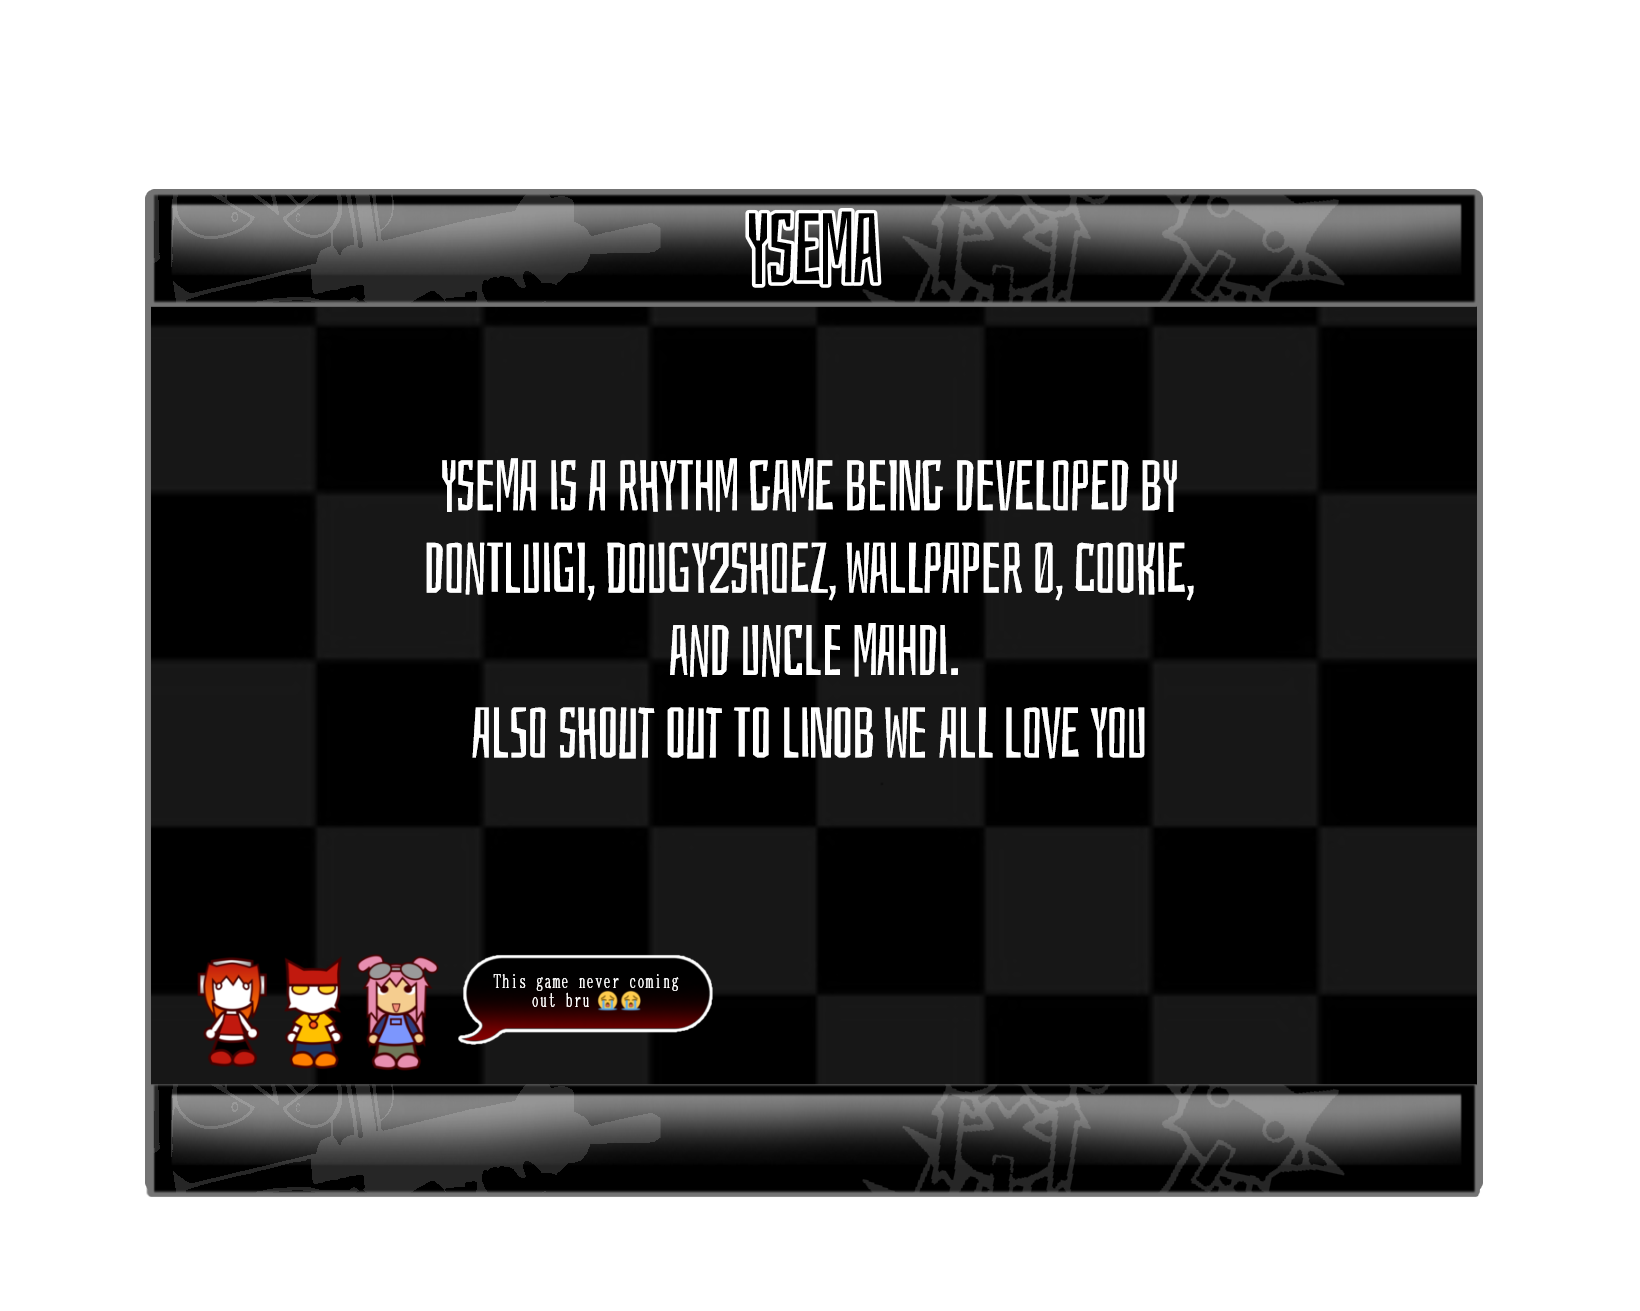
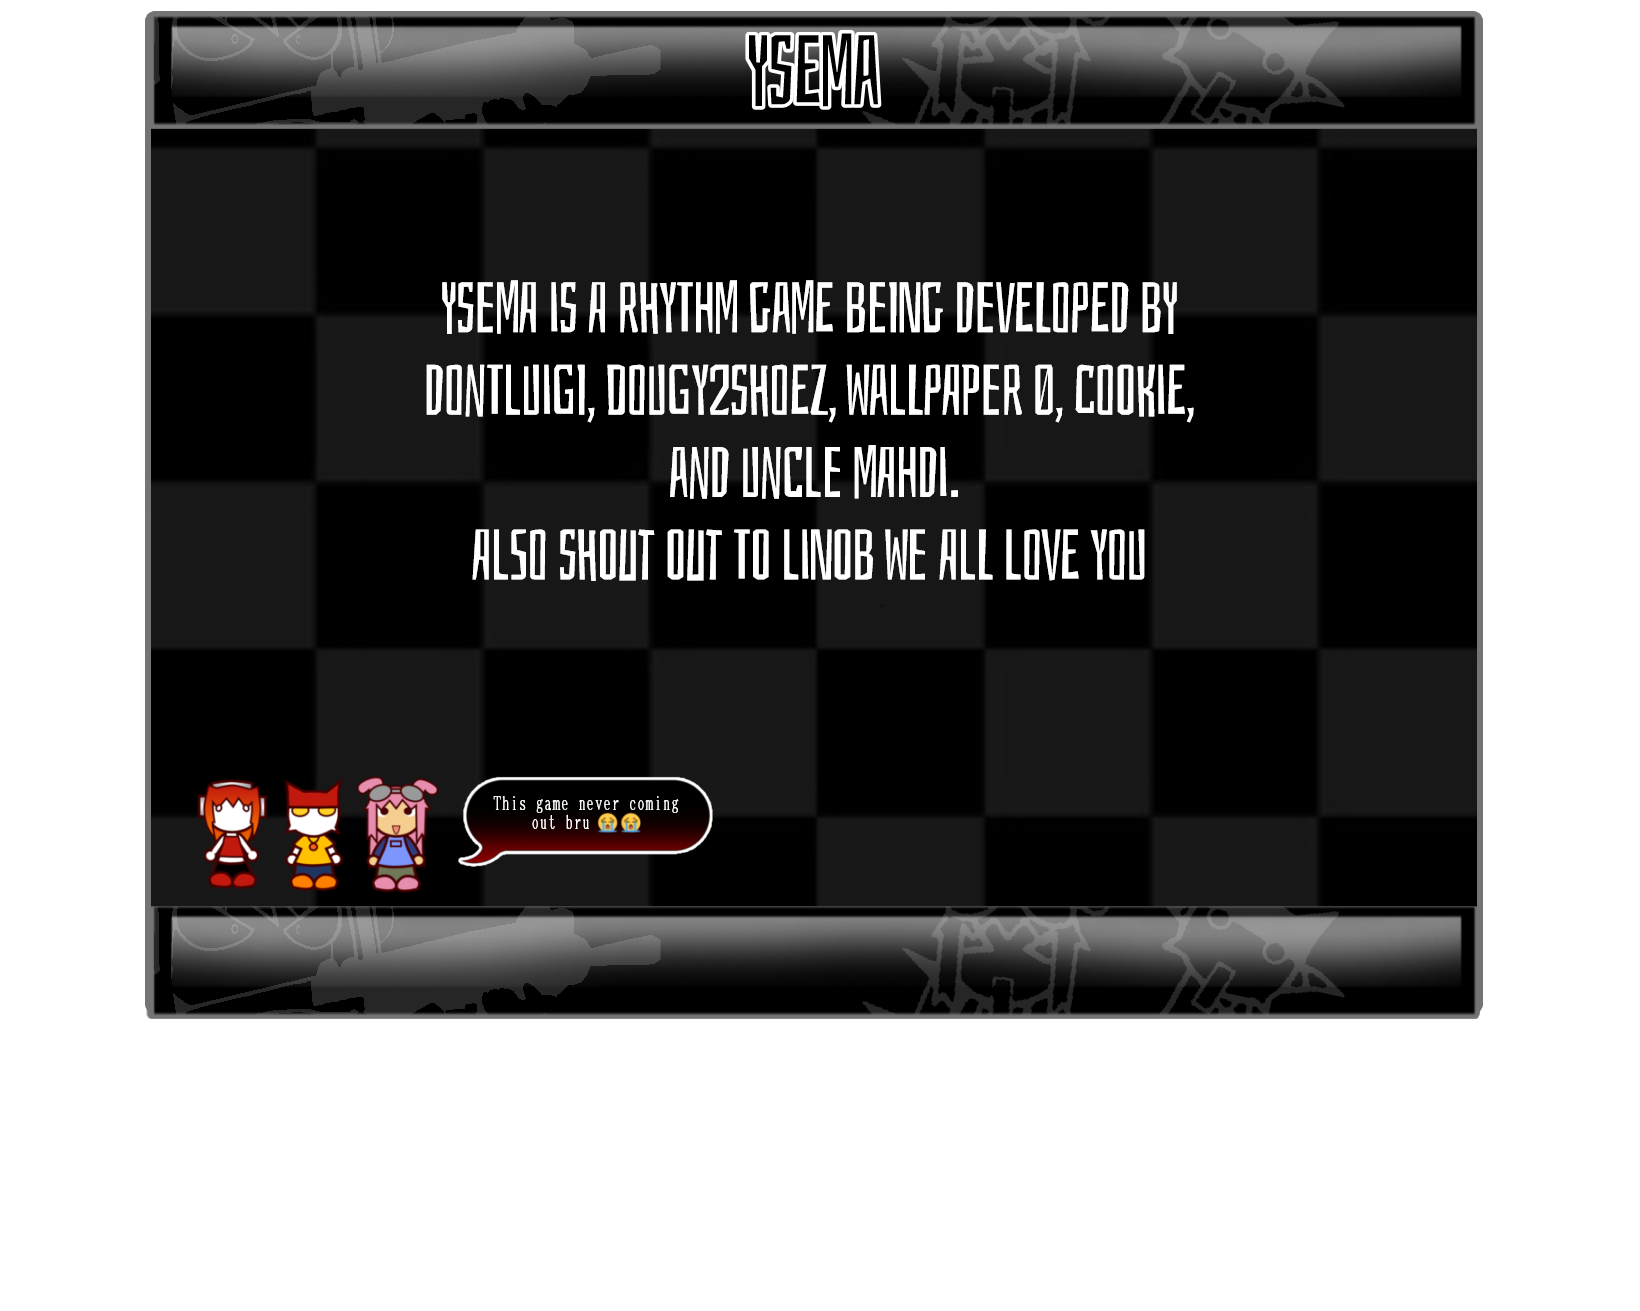
FIX URDGENT

diff --git a/about/index.html b/about/index.html
@@ -54,8 +54,8 @@
 
 
 <div style="text-align: center; position: relative; transform: translateY(-3px);">
-  <div class="nav-wrapper">
-  <img src="../webimg/bar.png" class="bar-bg" style="transform: translateX(6.5px);"">
+  <div class="nav-wrapper" style="z-index: 99;"">
+  <img src="../webimg/bar.png" class="bar-bg" style="transform: translateX(6.5px);z-index: 99;"">
 
   <a href="https://ysema.net/" class="btn-link home-btn">
     <img src="../webimg/text/home_unsel.png" class="op">
@@ -75,7 +75,7 @@
 </div>
 
 <div style="position: relative; display: block; width: 783px; margin: 0 auto; text-align: center;">
-  <img src="../webimg/about.png" style="width: 945px; display: block; transform: translate(-72px,-72px); z-index: -3;">
+  <img src="../webimg/about.png" style="width: 945px; display: block; transform: translate(-72px,28px); z-index: -99;">
 </div>
 <div><img src="../construct.gif" " width="100" style="padding: 340px 20px 20px 20px;"></div>
 

diff --git a/index.html b/index.html
@@ -54,8 +54,8 @@
 
 
 
-<div style="text-align: center; position: relative; transform: translateY(-3px);">
-  <div class="nav-wrapper">
+<div style="text-align: center; position: relative; z-index: 99; transform: translateY(-3px);">
+  <div class="nav-wrapper" style="z-index: 99;"">
   <img src="webimg/bar.png" class="bar-bg" style="transform: translateX(6.5px);"">
 
   <a href="https://ysema.net/" class="btn-link home-btn">
